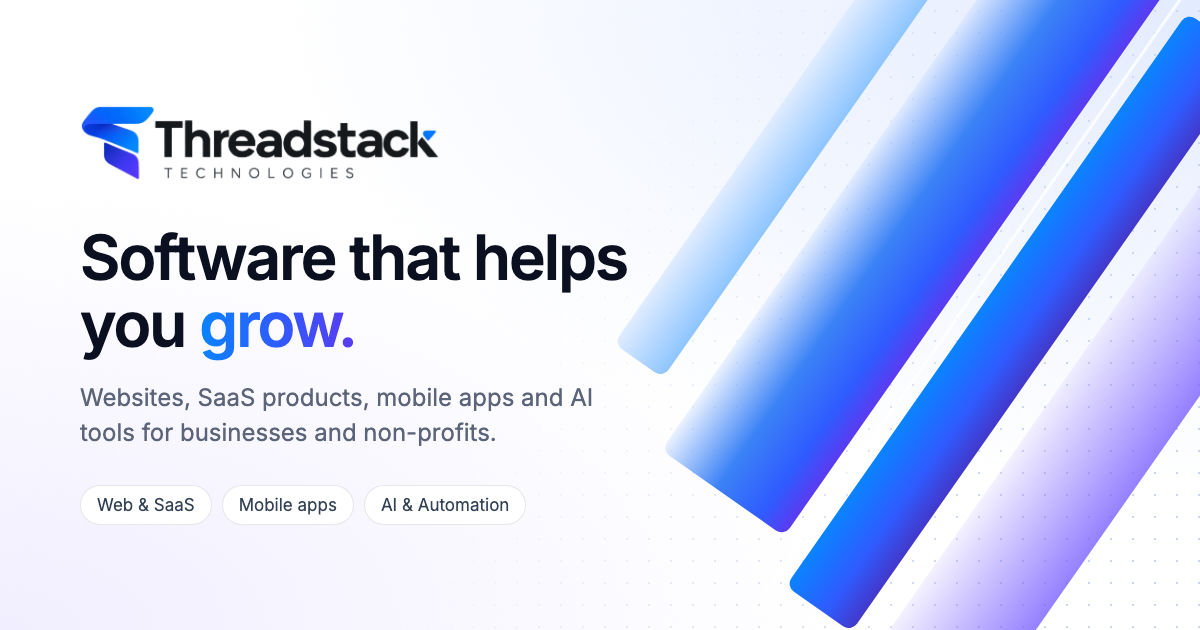
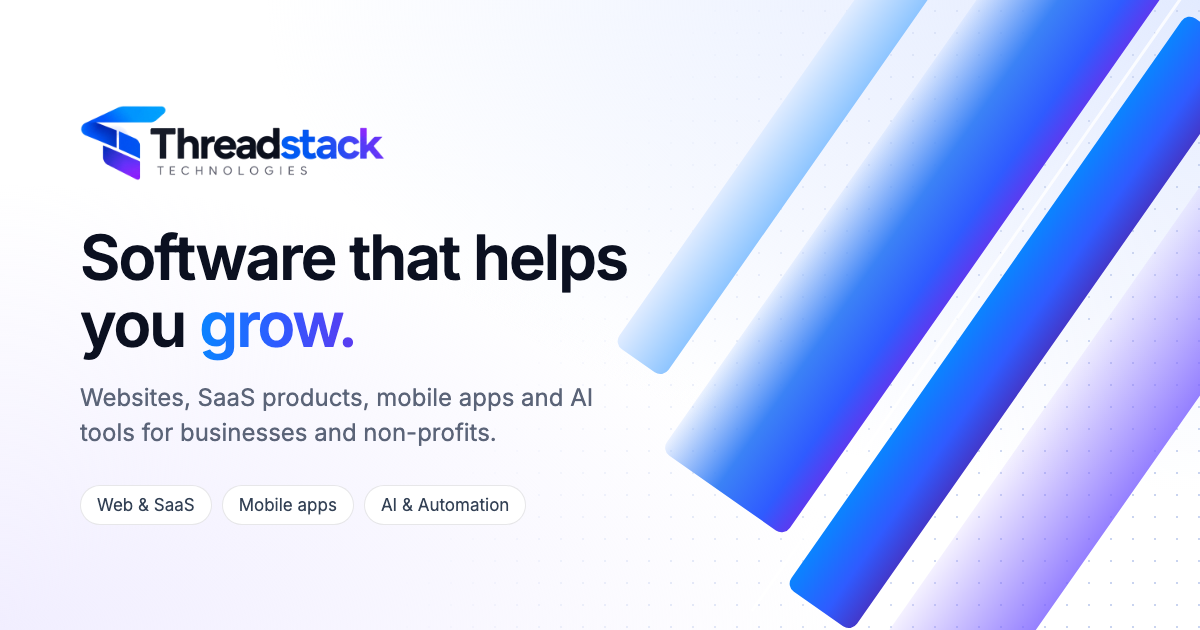
Refresh branding and enlarge the site header
Use the updated logo and refreshed social and app icons. Increase the header height and align the landing-page spacing, mobile menu, and anchor offset.

Changed region(s): [[0.0617, 0.1508, 0.37, 0.3016]]

diff --git a/src/components/site-header.tsx b/src/components/site-header.tsx
@@ -15,7 +15,7 @@ const NAV = [
 /**
  * Fixed header. At the top it blends into the page; once you scroll it turns
  * into frosted glass with a border line (no shadow). Height stays the same.
- * Put a h-[81px] spacer where the header used to sit.
+ * Put a h-[97px] spacer where the header used to sit.
  */
 export function SiteHeader() {
   const [scrolled, setScrolled] = useState(false);
@@ -75,9 +75,9 @@ export function SiteHeader() {
             : "border-slate-200/70 bg-white"
         }`}
       >
-        <div className="mx-auto flex h-20 w-full max-w-7xl items-center justify-between px-6 md:px-10">
+        <div className="mx-auto flex h-24 w-full max-w-7xl items-center justify-between px-6 md:px-10 lg:px-6 min-[1360px]:px-0">
           <Link href="/" className="flex items-center gap-3 text-slate-900">
-            <BrandLogo className="h-9 sm:h-10" />
+            <BrandLogo className="h-10 sm:h-12" />
           </Link>
 
           <nav className="hidden items-center gap-8 text-[15px] text-slate-800 lg:flex xl:gap-14">
@@ -157,7 +157,7 @@ export function SiteHeader() {
             ? "circle(150% at calc(100% - 46px) 0px)"
             : "circle(0px at calc(100% - 46px) 0px)",
         }}
-        className="fixed inset-x-0 top-[81px] bottom-0 z-40 flex flex-col overflow-y-auto overscroll-contain bg-white bg-[radial-gradient(ellipse_at_100%_0%,#e6efff_0%,transparent_55%),radial-gradient(ellipse_at_0%_100%,#eeebff_0%,transparent_55%)] will-change-[clip-path] transition-[clip-path] duration-700 ease-[cubic-bezier(0.65,0,0.35,1)] motion-reduce:transition-none lg:hidden"
+        className="fixed inset-x-0 top-[97px] bottom-0 z-40 flex flex-col overflow-y-auto overscroll-contain bg-white bg-[radial-gradient(ellipse_at_100%_0%,#e6efff_0%,transparent_55%),radial-gradient(ellipse_at_0%_100%,#eeebff_0%,transparent_55%)] will-change-[clip-path] transition-[clip-path] duration-700 ease-[cubic-bezier(0.65,0,0.35,1)] motion-reduce:transition-none lg:hidden"
       >
         <nav className="relative mx-auto flex w-full max-w-7xl flex-col px-6 pt-6 md:px-10">
           <p

diff --git a/src/app/(landing)/page.tsx b/src/app/(landing)/page.tsx
@@ -42,7 +42,7 @@ export default function LandingPage() {
       {/* Vertical guide lines on both sides of the content area (start below the header) */}
       <div
         aria-hidden
-        className="pointer-events-none absolute top-[81px] bottom-0 left-1/2 z-30 w-full max-w-7xl -translate-x-1/2 border-x border-slate-200/80"
+        className="pointer-events-none absolute top-[97px] bottom-0 left-1/2 z-30 w-full max-w-7xl -translate-x-1/2 border-x border-slate-200/80"
       />
 
       <SmoothScroll />
@@ -51,11 +51,11 @@ export default function LandingPage() {
       {/* First screen: header + hero */}
       <div className="relative flex flex-col overflow-hidden border-b border-slate-200 lg:h-svh lg:min-h-[680px]">
         {/* Spacer for the fixed header */}
-        <div aria-hidden className="h-[81px] shrink-0" />
+        <div aria-hidden className="h-[97px] shrink-0" />
         {/* Diagonal glass bands in the brand blues, right side (large screens).
             Fades out toward the text on the left. z-40 puts it above the
             vertical guide line (z-30), so the line sits behind the art. */}
-        <HeroShards className="absolute top-20 right-0 z-40 hidden h-[calc(100%-5rem)] w-[60%] [mask-image:linear-gradient(to_right,transparent,#000_35%)] lg:block" />
+        <HeroShards className="absolute top-24 right-0 z-40 hidden h-[calc(100%-6rem)] w-[60%] [mask-image:linear-gradient(to_right,transparent,#000_35%)] lg:block" />
         <Hero />
         {/* Sphere sits at the bottom center; only its top part shows. */}
         <DotSphere className="absolute bottom-0 left-1/2 aspect-square w-[min(700px,150vw)] -translate-x-1/2 translate-y-[62%]" />

diff --git a/src/components/brand-logo.tsx b/src/components/brand-logo.tsx
@@ -1,14 +1,17 @@
 import Image from "next/image";
 import { cn } from "@/lib/utils";
 
-/** Threadstack Technologies logo (mark + name). Set the height with className. */
+/**
+ * Threadstack Technologies logo (mark + name). Set the height with className.
+ * The earlier logo is kept at /brand/threadstack-logo.webp (1503 x 317).
+ */
 export function BrandLogo({ className }: { className?: string }) {
   return (
     <Image
-      src="/brand/threadstack-logo.webp"
+      src="/brand/threadstack-logo-v2.webp"
       alt="Threadstack Technologies"
-      width={1503}
-      height={317}
+      width={1525}
+      height={380}
       priority
       className={cn("h-9 w-auto", className)}
     />

diff --git a/src/components/smooth-scroll.tsx b/src/components/smooth-scroll.tsx
@@ -17,7 +17,7 @@ export function SmoothScroll() {
     const lenis = new Lenis({
       autoRaf: true,
       lerp: 0.1,
-      anchors: { offset: -80 },
+      anchors: { offset: -96 },
     });
     lenis.on("scroll", ScrollTrigger.update);
     return () => lenis.destroy();
